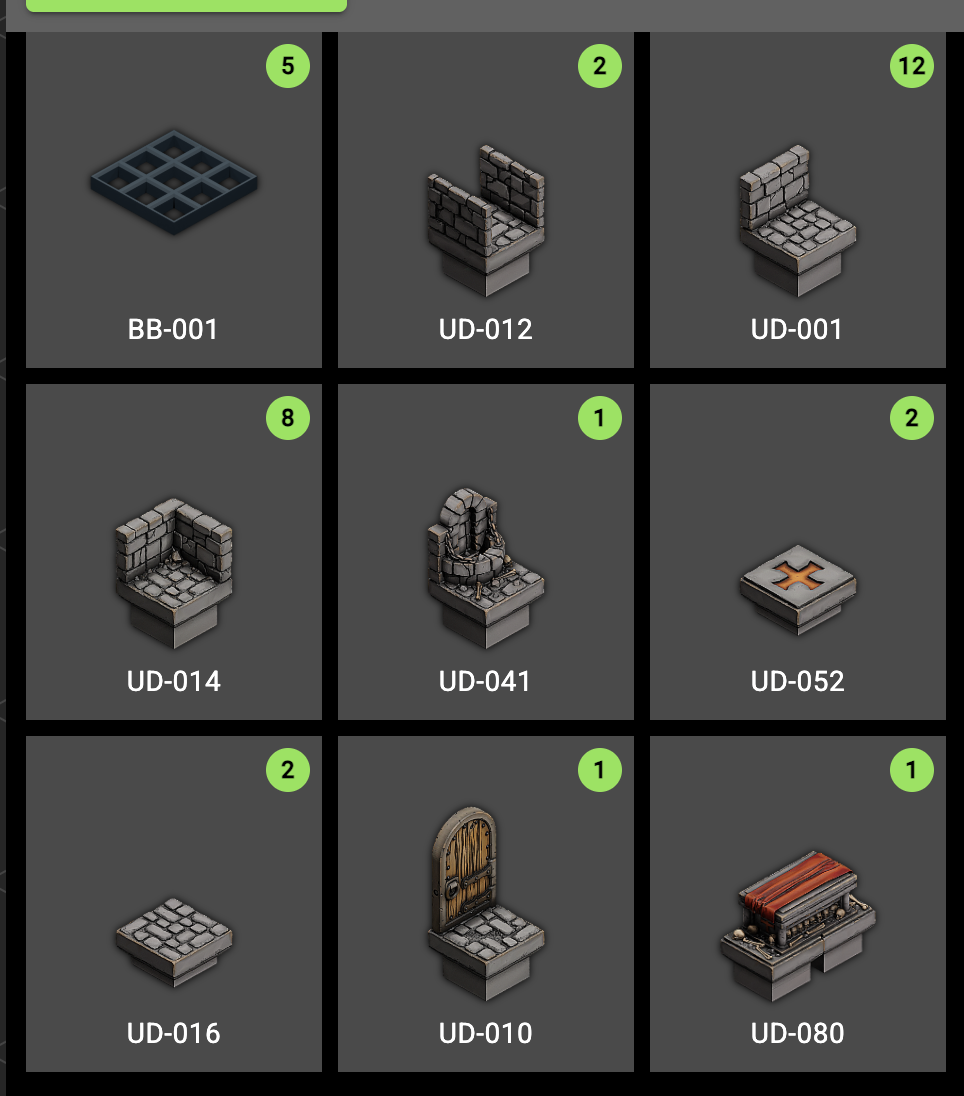
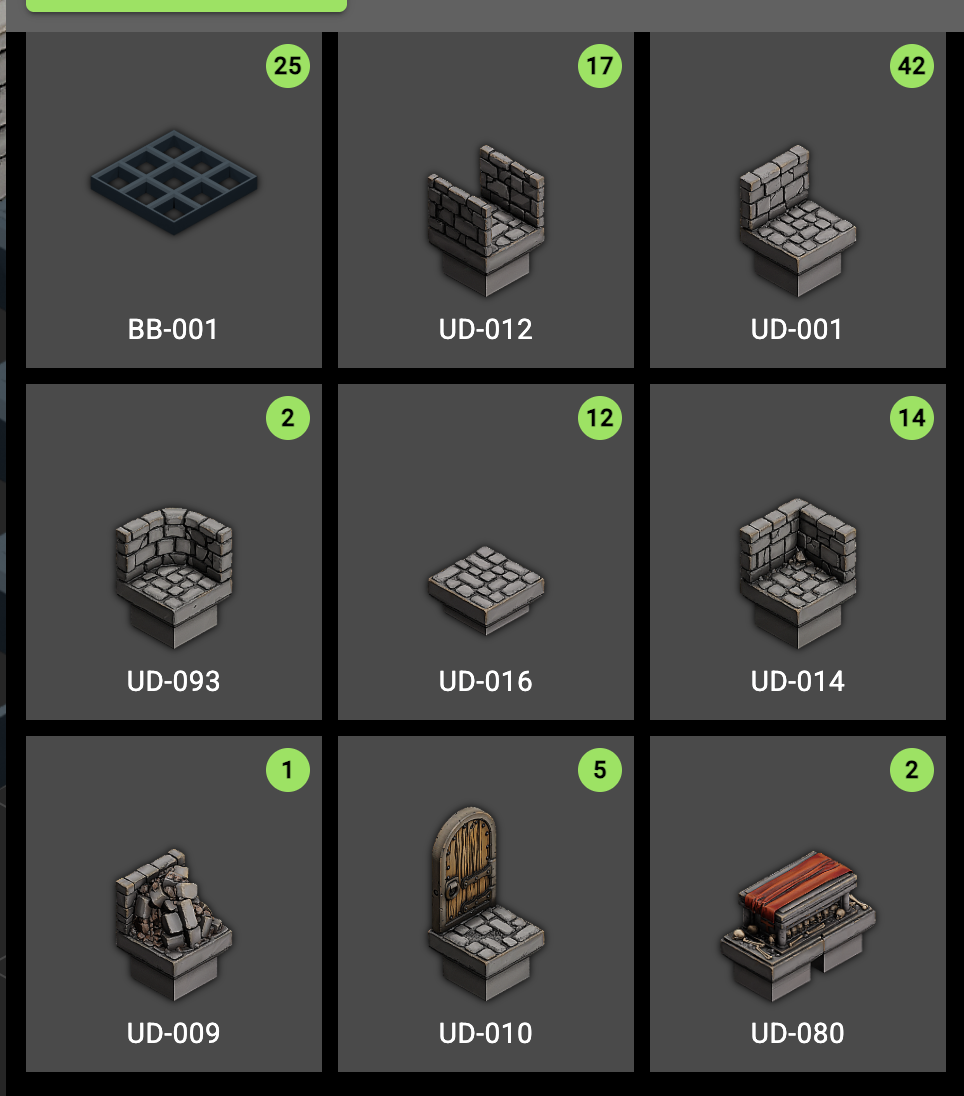
fixing the pics that where backwards, bleh

diff --git a/maps/rwhiffen/Burial Mound of Esur the Red/README.md b/maps/rwhiffen/Burial Mound of Esur the Red/README.md
@@ -11,9 +11,9 @@ The "false tomb" portion:
 
 ![Burial Mound of Esur the Red](Burial%20Mound%20of%20Esur%20the%20Red.png)
 
-![The Build List](Burial%20Mound%20of%20Esur%20the%20Red-build%20list.png)
+![The Build List](Burial%20Mound%20of%20Esur%20the%20Red-Build%20List.png)
 
 The "real tomb" portion:
 ![Burial Mound of Esur the Red Secret entrance](Burial%20Mound%20of%20Esur%20the%20Red%20Secret%20entrance.png)
 
-![The Build List](Burial%20Mound%20of%20Esur%20the%20Red%20Secret%20Door%20-%20Build%20List.png)
+![The Build List](Burial%20Mound%20of%20Esur%20the%20Red%20Secret%20entrance-build%20list.png)
